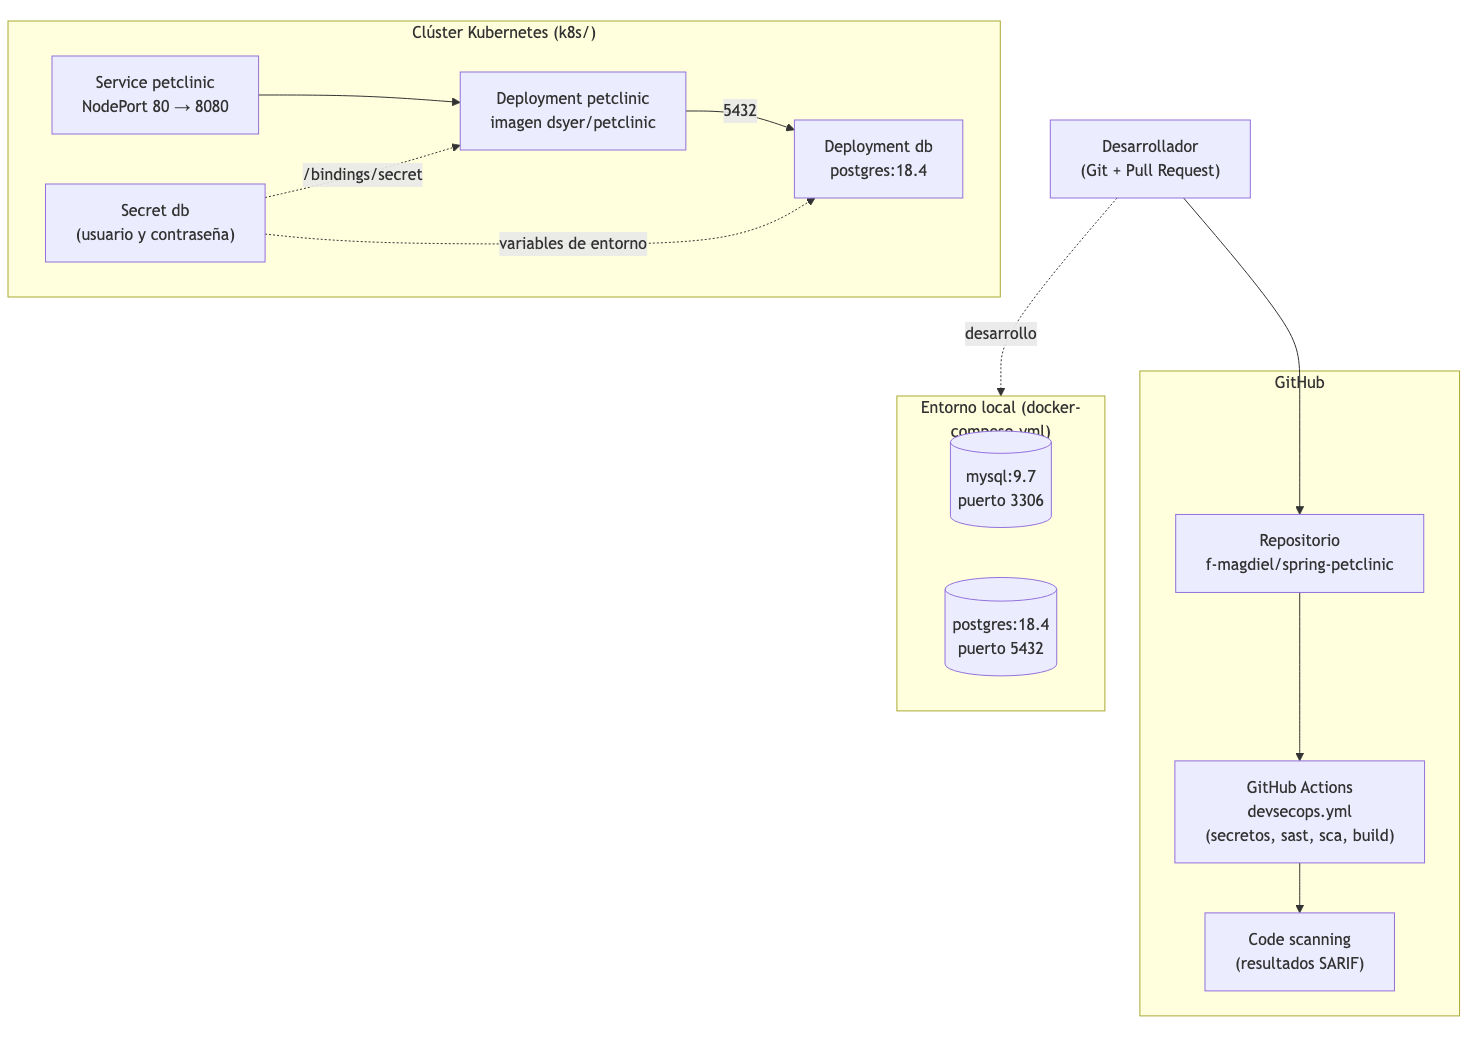
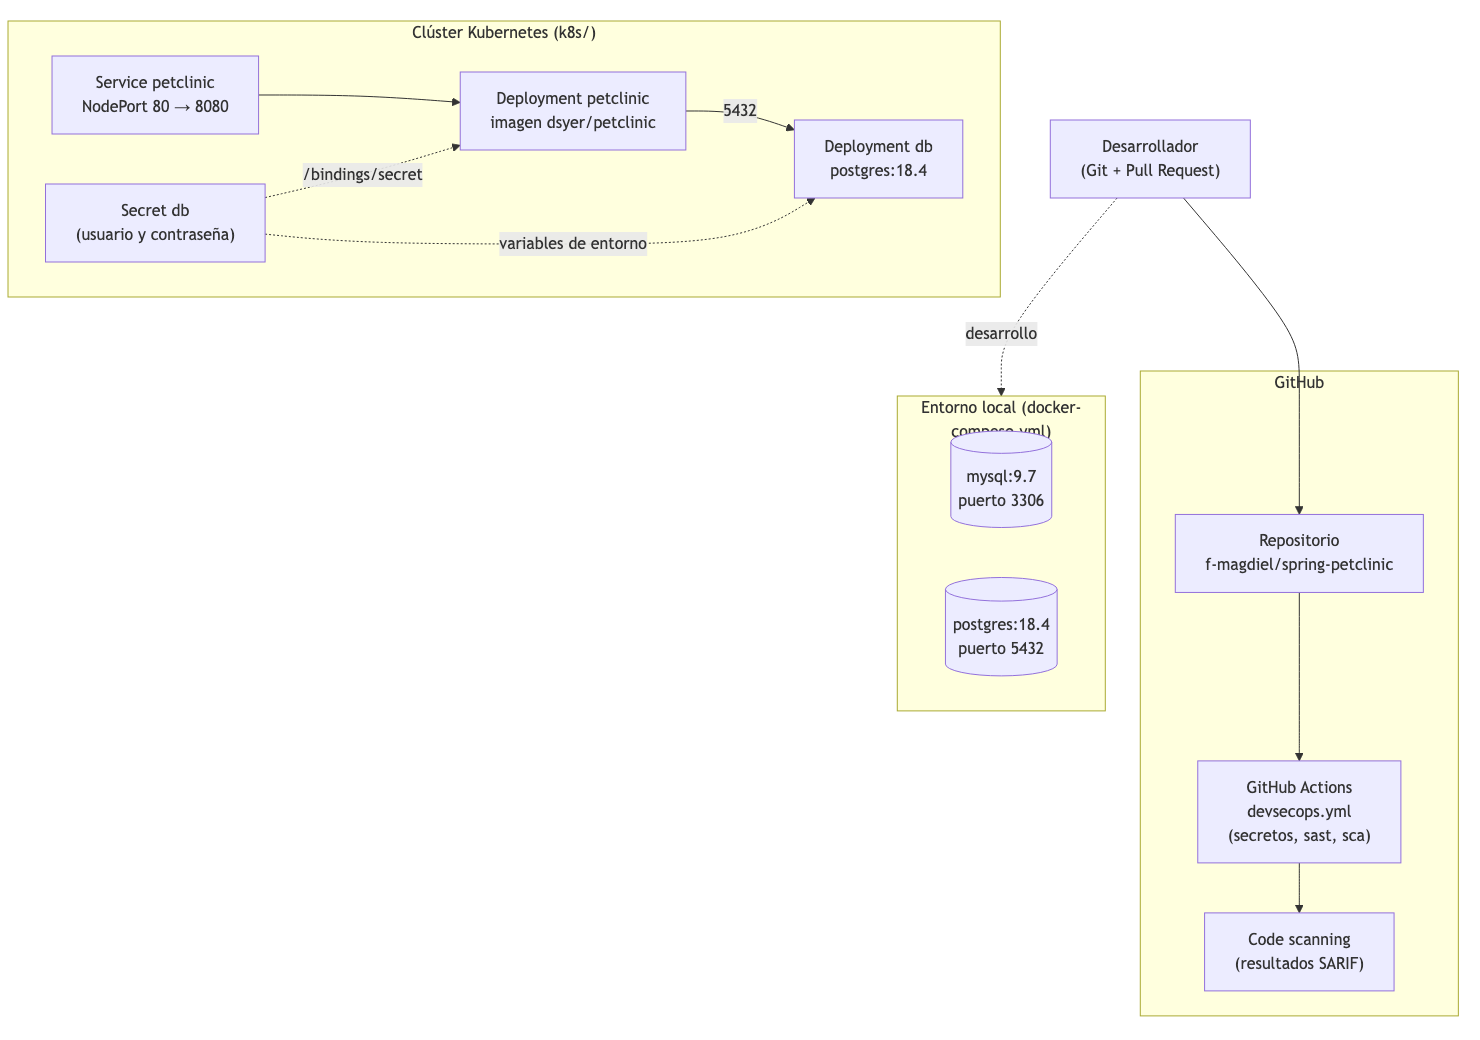
docs: corregir los jobs de devsecops.yml en los diagramas de despliegue y el DFD
El workflow tiene tres jobs (secretos, sast y sca); no existe un job build.

diff --git a/security/diseño/dfd.md b/security/diseño/dfd.md
@@ -10,7 +10,7 @@
 | P1 | Proceso | Controladores MVC y vistas | `OwnerController`, `PetController`, `VisitController`, `VetController` y plantillas Thymeleaf. |
 | P2 | Proceso | Capa de persistencia | Repositorios Spring Data JPA. |
 | P3 | Proceso | Actuator | Endpoints `/actuator/health` y `/actuator/info`. |
-| P4 | Proceso | Pipeline de CI | GitHub Actions: secretos, SAST, SCA y build. |
+| P4 | Proceso | Pipeline de CI | GitHub Actions: secretos, SAST y SCA. |
 | D1 | Almacén | Base de datos | H2, MySQL o PostgreSQL con las tablas `owners`, `pets`, `visits`, `vets`, `specialties`, `types`. |
 | D2 | Almacén | Caché de veterinarios | JCache en memoria. |
 | D3 | Almacén | Repositorio Git | Código, configuración y manifiestos. |

diff --git a/security/diseño/arquitectura.md b/security/diseño/arquitectura.md
@@ -33,7 +33,7 @@ flowchart TB
 
     subgraph GH["GitHub"]
         REPO["Repositorio<br/>f-magdiel/spring-petclinic"]
-        CI["GitHub Actions<br/>devsecops.yml<br/>(secretos, sast, sca, build)"]
+        CI["GitHub Actions<br/>devsecops.yml<br/>(secretos, sast, sca)"]
         SEC["Code scanning<br/>(resultados SARIF)"]
     end
 
